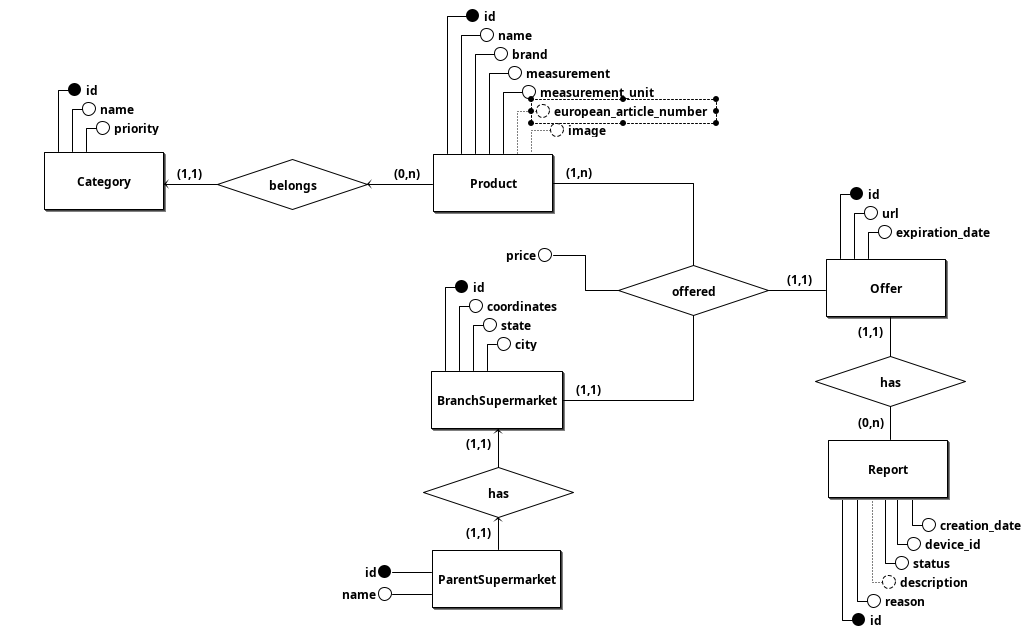
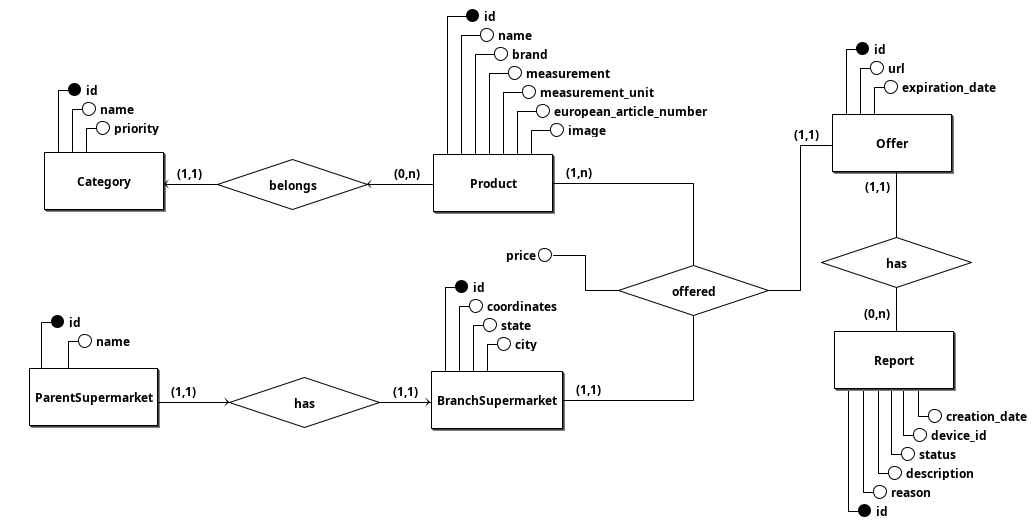
fix: adicionando o link correto para referenciar o arquivo .md do database.md

diff --git a/docs/database/database.md b/docs/database/database.md
@@ -15,17 +15,14 @@ Esta secção tem por objetivo explicar a base de dados que será utilizada nest
 
 ### 2.2 Atributos
 
+<i>Obs: Atributos <u>sublinhados</u> representam a chave primária, enquanto atributos com cerquilha(#) representam chaves estrangeiras.</i>
+
+- **Product**(<u>id</u>, #category, name, brand, measurement, measurement_unit, european_article_number, image)
 - **Category**(<u>id</u>, name, priority)
-
-- **Product**(<u>id</u>, name, brand, measurement, measurement_unit, european_article_number, image)
-
 - **ParentSupermarket**(<u>id</u>, name)
-
-- **BranchSupermarket**(<u>id</u>, coordinates, state, city)
-
+- **BranchSupermarket**(<u>id</u>, #parent_supermarket, coordinates, state, city)
 - **Offer**(<u>id</u>, url, expiration_date)
-
-- **Report**(<u>id</u>, reason, description, status, device_id, creation_date)
+- **Report**(<u>id</u>, #offer, reason, description, status, device_id, creation_date)
 
 ### 2.3 Relacionamentos
 
@@ -36,13 +33,13 @@ Um **Product** pertence a obrigatoriamente uma única **Category**, enquanto uma
 <br><br>
 
 2. ParentSupermarket- **possui** - BranchSupermarket <br>
-Um **ParentSupermarket** possui ao menos um ou vários **BranchSupermarket**, enquanto um **BranchSupermarket** faz parte de obrigatoriamente de apenas um **ParentSupermarket**. 
+Um **ParentSupermarket** possui ao menos um ou vários **BranchSupermarket**, enquanto um **BranchSupermarket** faz parte de obrigatoriamente de apenas um **ParentSupermarket**.
 <br>
 **Cardinalidade: (1,1) : (1,n)**
 <br><br>
 
 3. Offer - **possui** - Report <br>
-Uma **Offer** possui zero ou vários **Report**, enquanto um **Report** faz parte de obrigatoriamente de apenas uma **Offer**. 
+Uma **Offer** possui zero ou vários **Report**, enquanto um **Report** faz parte de obrigatoriamente de apenas uma **Offer**.
 <br>
 **Cardinalidade: (1,1) : (0:n)**
 <br><br>
@@ -51,24 +48,29 @@ Uma **Offer** possui zero ou vários **Report**, enquanto um **Report** faz part
 Um **Product** e uma **Offer** são oferecidas obrigatoriamente por um único **BranchSupermarket**. Um **Product** e um **BranchSupermarket** são oferecidas obrigatoriamente por uma única **Offer**. E em uma **Offer** e um **BranchSupermarket**  podem ser oferecidas ao menos um ou vários **Product**.
 <br>
 **Cardinalidade: (1,1) : (1,n) : (1:1)**
-<br><br>
 
 ### 2.4 Diagramas
 
-![Diagrama Entidade-Relacionamento]('https://raw.githubusercontent.com/code-silva/compara-precos-mercado/refs/heads/main/docs/img/database/der.png')
-![Diagrama Lógico de Dados]('https://raw.githubusercontent.com/code-silva/compara-precos-mercado/refs/heads/main/docs/img/database/dld.png')
---- 
+`Diagrama Entidade-Relacionamento`
+<div align="center">
+  <img src="../../img/database/der.png" alt="Diagrama Entidade-Relacionamento" style="border: 1px solid black;">
+</div>
+
+`Diagrama Lógico de Dados`
+<div align="center">
+  <img src="../../img/database/dld.png" alt="Diagrama Lógico de Dados" style="border: 1px solid black;">
+</div>
 
 ## 3. Dicionário de Dados
 
-## 3.1 Category
+### 3.1 Category
 | Atributo | Tipo | Propriedades | Descrição |
 | :--- | :--- | :--- | :--- |
 | id | INT | PK, Auto-increment, Obrigatório | Identificador único da tupla, automaticamente atribuído pelo SGBD. |
 | name | VARCHAR(50) | Obrigatório, Único | Nome da categoria. |
 | priority | INT | Obrigatório, Único | Prioridade da categoria. Quanto menor, mais prioritário será. |
 
-## 3.2 Product
+### 3.2 Product
 | Atributo | Tipo | Propriedades | Descrição |
 | :--- | :--- | :--- | :--- |
 | id | INT | PK, Auto-increment, Obrigatório | Identificador único da tupla, automaticamente atribuído pelo SGBD. |
@@ -80,7 +82,7 @@ Um **Product** e uma **Offer** são oferecidas obrigatoriamente por um único **
 | measurement_unit | ENUM(‘KG’, ‘G’, ‘L’, ‘ML’, ‘UN’) | Obrigatório | Unidade de medida do produto, podendo ser: KG (Quilo), G (Grama), L (Litro), ML (Mililitro), UN (Unidade). |
 | image | - | Opcional | Imagem/Foto do Produto |
 
-## 3.3 BranchSupermarket
+### 3.3 BranchSupermarket
 | Atributo | Tipo | Propriedades | Descrição |
 | :--- | :--- | :--- | :--- |
 | id | INT | PK, Auto-increment, Obrigatório | Identificador único da tupla, automaticamente atribuído pelo SGBD. |
@@ -89,20 +91,20 @@ Um **Product** e uma **Offer** são oferecidas obrigatoriamente por um único **
 | state | CHAR(2) | Obrigatório | Sigla do estado em que o mercado está localizado. |
 | city | VARCHAR(50) | Obrigatório | Nome da cidade em que o mercado está localizado. |
 
-## 3.4 ParentSupermarket
+### 3.4 ParentSupermarket
 | Atributo | Tipo | Propriedades | Descrição |
 | :--- | :--- | :--- | :--- |
 | id | INT | PK, Auto-increment, Obrigatório | Identificador único da tupla, automaticamente atribuído pelo SGBD. |
 | name | VARCHAR(100) | Obrigatório, Único | É o nome do mercado matriz. |
 
-## 3.5 Offer
+### 3.5 Offer
 | Atributo | Tipo | Propriedades | Descrição |
 | :--- | :--- | :--- | :--- |
 | id | INT | PK, Auto-increment, Obrigatório | Identificador único da tupla, automaticamente atribuído pelo SGBD. |
 | url | VARCHAR(2083) | Obrigatório, Único | É a URL de onde este panfleto de mercado foi extraído. |
 | expiration_date | DATE | Obrigatório | É a data em que esta oferta expirará. |
 
-## 3.6 Report
+### 3.6 Report
 | Atributo | Tipo | Propriedades | Descrição |
 | :--- | :--- | :--- | :--- |
 | id | INT | PK, Auto-increment, Obrigatório | Identificador único da tupla, automaticamente atribuído pelo SGBD. |
@@ -110,10 +112,10 @@ Um **Product** e uma **Offer** são oferecidas obrigatoriamente por um único **
 | device_id | VARCHAR(255) | Obrigatório | É o código do celular da pessoa que realizou a denúncia. |
 | reason | ENUM('WP', 'NP', 'EO', 'O') | Obrigatório | É o motivo da denúncia, podendo ser: Preço Errado (WP), Produto Inexistente (NP), Oferta Expirada (EO), Outros (O). |
 | description | VARCHAR(500) | Opcional | É a descrição da denúncia. |
-| status | ENUM('R', 'P', 'G') | Obrigatório | Status da denúncia, podenso ser: Resolvida (R), Pendente (P), Improcedente (G). |
+| status | ENUM('R', 'P', 'G') | Obrigatório | Status da denúncia, podendo ser: Resolvida (R), Pendente (P), Improcedente (G). |
 | creation_date | DATETIME | Obrigatório | É a data em que a denúncia foi realizada. |
 
-## 3.7 BranchProductOffer
+### 3.7 BranchProductOffer
 | Atributo | Tipo | Propriedades | Descrição |
 | :--- | :--- | :--- | :--- |
 | id | INT | PK, Auto-increment, Obrigatório | Identificador único da tupla, automaticamente atribuído pelo SGBD. |